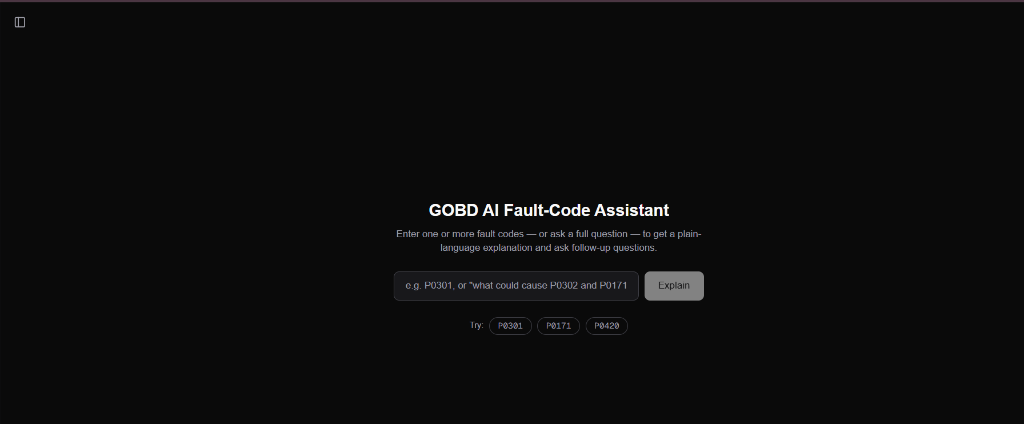
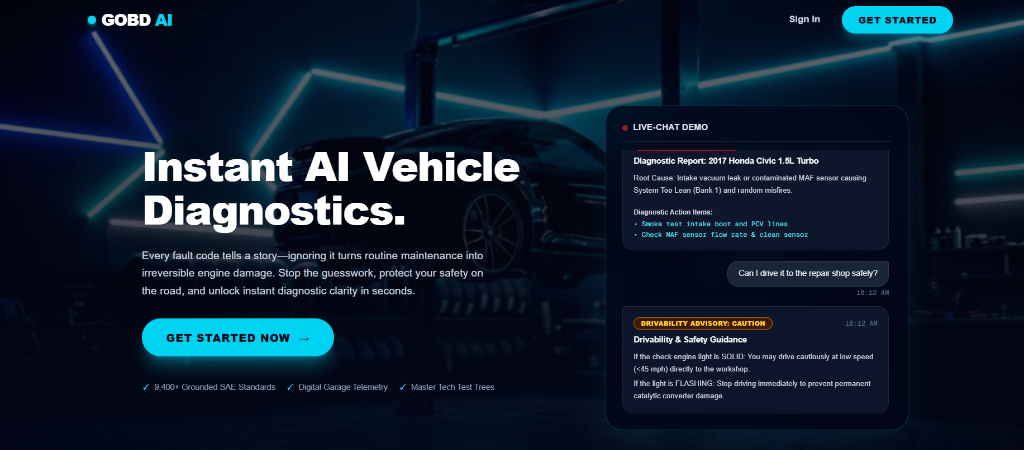
portfolio

diff --git a/app/about/page.tsx b/app/about/page.tsx
@@ -183,7 +183,7 @@ export default function AboutPage() {
                   I’m a <span className="text-white font-semibold">Full-Stack Engineer</span> who builds secure, scalable systems from the backend out.
                 </p>
                 <p>
-                  I started my software engineering journey primarily with <span className="text-white font-semibold">Go</span> and backend development, and have since expanded into <span className="text-white font-semibold">Node.js</span>, <span className="text-white font-semibold">NestJS</span>, <span className="text-white font-semibold">TypeScript</span>, <span className="text-white font-semibold">React</span>, <span className="text-white font-semibold">Next.js</span>, and <span className="text-white font-semibold">relational databases</span>. This has allowed me to work across the full stack while keeping backend engineering at the core of what I do.
+                  I started my Full-Stack Engineering journey primarily with <span className="text-white font-semibold">Go</span> and backend development, and have since expanded into <span className="text-white font-semibold">Node.js</span>, <span className="text-white font-semibold">NestJS</span>, <span className="text-white font-semibold">TypeScript</span>, <span className="text-white font-semibold">React</span>, <span className="text-white font-semibold">Next.js</span>, and <span className="text-white font-semibold">relational databases</span>. This has allowed me to work across the full stack while keeping backend engineering at the core of what I do.
                 </p>
                 <p>
                   I enjoy solving problems around <span className="text-white font-semibold">backend architecture</span>, <span className="text-white font-semibold">APIs</span>, <span className="text-white font-semibold">databases</span>, <span className="text-white font-semibold">application security</span>, and <span className="text-white font-semibold">production reliability</span>, with a focus on building software that is maintainable, secure, and practical.

diff --git a/data/projects.ts b/data/projects.ts
@@ -322,6 +322,7 @@ export const projects: ProjectItem[] = [
     role: "Backend & Systems Developer",
     timeline: "2026",
     image: "/projects/ai-diagnostic-bot.png",
+    liveUrl: "https://obd-chat-bot.vercel.app/",
     summary:
       "Engineered an AI-assisted automotive diagnostic engine that interprets complex OBD-II Diagnostic Trouble Codes (DTCs), analyzes mechanical symptoms, and generates structured, deterministic repair workflows.",
     technologies: [
